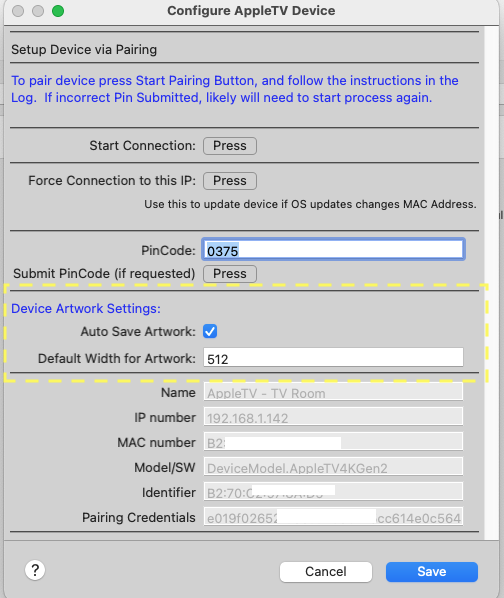
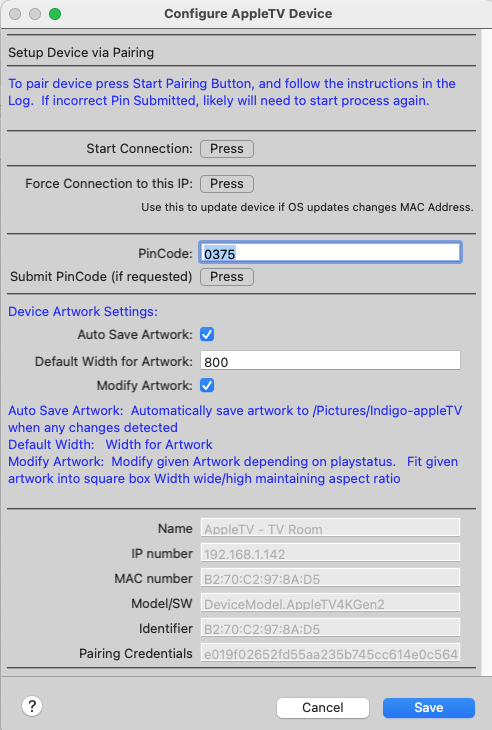
1.6.0
Extension of below changes:  Add Artwork Modify Option
This greyscales the provided artwork when paused.
It also resizes the provided artwork to a transparent background box width and height is that set.
This enables aspect ratio to remain intact for refreshingUrl control page use.

Add AppleTV device settings for Artwork - always updating the artwork if enabled and artwork changes.  Updates on PowerState changes and PlayState changes.   Removes need for Indigo based triggers on playback changes.

Automatically changes artwork thumb if playing, or paused or nothing=everything else.

These files can be changed in the /Pictures directory once they exist and won't be changed.  If wish to go back to plugins default, delete the files and restart the plugin.

Update library - including recent unmerged pull to fix 18.4 companion issue (tested on tvOS 18.4).  Will merge to latest version when released

Update dependencies.

Move default artwork thumbnail (which is used when no playback) to Pictures directory.  On start if doesn't exist will create.  Can be user updated to whatever thumb suits

Update DeviceConfig.png

1.5.11

Use animated thumbnail if playback occuring, otherwise use the static image

1.5.10

Change to animate default artwork thumb for Kiosk Home use
Remove Nowplaying details when power off (avoids some persisting given variability in appleTV apps)

1.5.8
[…]

diff --git a/appleTV.indigoPlugin/Contents/Server Plugin/plugin.py b/appleTV.indigoPlugin/Contents/Server Plugin/plugin.py
@@ -35,6 +35,9 @@ except:
 import time as t
 import binascii
 
+from io import BytesIO
+from PIL import Image, ImageDraw, ImageFont
+
 ## test, base import
 ## redo imports after installation
 
@@ -171,6 +174,7 @@ class appleTVListener( DeviceListener, PushListener, PowerListener, AudioListene
         self.loop = loop
         self.atv_config = atv_config
         self.current_artworkid = ""
+        self.last_artwork_mode = ""
         self.last_artworkid = ""
         self.devicename = devicename
         self._app_list = None
@@ -348,6 +352,7 @@ class appleTVListener( DeviceListener, PushListener, PowerListener, AudioListene
                 self.plugin.logger.debug(f"Artwork Update Forced {artwork_update}")
 
             artwork_width = device.pluginProps.get("artwork_width", 512)
+            artwork_modify = device.pluginProps.get("artwork_modify", False)
             try:
                 width_int = int(artwork_width)
             except (ValueError, TypeError):
@@ -360,9 +365,9 @@ class appleTVListener( DeviceListener, PushListener, PowerListener, AudioListene
 
             if artwork_update:
                 if self.plugin.debug2:
-                    self.plugin.logger.debug("Updating Artwork as playstate changed and forced update selected.")
+                    self.plugin.logger.debug("Updating Artwork as playstate changed and Autosave Artwork selected.")
                 # Schedule the asynchronous artwork save task without blocking.
-                self.loop.create_task(self.async_artwork_save(filename, width_int, None, playstatus=playstatus))
+                self.loop.create_task(self.async_artwork_save(filename, width_int, None, playstatus=playstatus, artwork_modify=artwork_modify))
 
         except Exception:
             if self.plugin.debug2:
@@ -521,7 +526,7 @@ class appleTVListener( DeviceListener, PushListener, PowerListener, AudioListene
         args = cmd[equal_sign + 1:].split(",")
         return command, _parse_args(command, args)
 
-    async def async_artwork_save(self, filename, width, height=None, playstatus=None):
+    async def async_artwork_save(self, filename, width, height=None, playstatus=None, artwork_modify=None):
         """
         Download artwork and save it to filename.
 
@@ -554,20 +559,59 @@ class appleTVListener( DeviceListener, PushListener, PowerListener, AudioListene
             self.current_artworkid = artworkID
 
             if self.plugin.debug2:
-                self.plugin.logger.debug(
-                    f"artworkID={artworkID}, current_artworkid={self.current_artworkid}, last_artworkid={self.last_artworkid}")
+                self.plugin.logger.debug(f"artworkID={artworkID}, current_artworkid={self.current_artworkid}, last_artworkid={self.last_artworkid}")
+
+            # Determine the desired mode based on playstatus.
+            desired_mode = "normal"  # default mode is color
+            if playstatus is not None and getattr(playstatus, "device_state", None) is not None:
+                state = playstatus.device_state
+                self.plugin.logger.debug(f"playstatus.device_state={state}")
+                if state == pyatv.const.DeviceState.Paused:
+                    desired_mode = "grayscale"
 
             # If artwork is available, write it if it has changed.
             if artwork is not None and artworkID is not None:
-                if self.last_artworkid != self.current_artworkid:
-                    with open(filename, "wb") as file:
-                        file.write(artwork.bytes)
-                    if self.plugin.debug2:
-                        self.plugin.logger.debug(f"Artwork Downloaded, mimetype {artwork.mimetype}")
-                    self.last_artworkid = artworkID
+                if artwork_modify:
+                    # Determine the desired mode based on playstatus.
+                    desired_mode = "normal"
+                    if playstatus is not None and getattr(playstatus, "device_state", None) is not None:
+                        state = playstatus.device_state
+                        if state == pyatv.const.DeviceState.Paused:
+                            desired_mode = "grayscale"
+
+                    # Process if artworkID has changed or mode is different.
+                    if (self.last_artworkid != artworkID) or (getattr(self, "last_artwork_mode", None) != desired_mode):
+                        # Open the artwork from the bytes.
+                        image_buffer = BytesIO(artwork.bytes)
+                        img = Image.open(image_buffer)
+
+                        final_img = self.process_to_square(img, box_size=width, to_grayscale=(desired_mode == "grayscale"))
+
+                        final_img.save(filename)
+
+                        if self.plugin.debug2:
+                            self.plugin.logger.debug(
+                                f"Processed artwork saved to {filename} using mode: {desired_mode}")
+
+                        self.last_artworkid = artworkID
+                        self.last_artwork_mode = desired_mode
+                    else:
+                        if self.plugin.debug2:
+                            self.plugin.logger.debug("Artwork and mode unchanged, skipping update.")
                 else:
-                    if self.plugin.debug2:
-                        self.plugin.logger.debug("Artwork unchanged, skipping update.")
+                    # If not modifying the artwork, simply save the bytes if artworkID is new.
+                    if self.last_artworkid != artworkID:
+                        with open(filename, "wb") as file:
+                            file.write(artwork.bytes)
+                        if self.plugin.debug2:
+                            self.plugin.logger.debug(f"Artwork saved to {filename} without modifications.")
+                        self.last_artworkid = artworkID
+                        # Clear last_artwork_mode since no processing was done.
+                        self.last_artwork_mode = None
+                    else:
+                        if self.plugin.debug2:
+                            self.plugin.logger.debug("Artwork unchanged, skipping update.")
+
             else:
                 # No valid artwork; use a fallback default image.
                 # Determine the fallback image and its ID based on playstatus.
@@ -603,6 +647,49 @@ class appleTVListener( DeviceListener, PushListener, PowerListener, AudioListene
                 self.plugin.logger.exception("async artwork save exception", exc_info=True)
             else:
                 self.plugin.logger.debug("async artwork save exception", exc_info=True)
+
+    def process_to_square(self, img, box_size, to_grayscale=False):
+        """
+        Resize the given image so that it fits inside a square of size (box_size x box_size)
+        while preserving its aspect ratio, then center it on a transparent canvas.
+
+        The output image is always in RGBA mode (so that the background is transparent).
+
+        Parameters:
+            img (PIL.Image): The input image.
+            box_size (int): The dimension of the output square.
+            to_grayscale (bool): If True, the image is converted to grayscale before processing.
+
+        Returns:
+            PIL.Image: The processed square image with a transparent background.
+        """
+        # Convert the input image to RGBA.
+        # If converting to grayscale, convert to "L" then back to "RGBA" so that the image appears grayscale.
+        if to_grayscale:
+            img = img.convert("L").convert("RGBA")
+        else:
+            img = img.convert("RGBA")
+
+        # Get original dimensions.
+        orig_w, orig_h = img.size
+        scale = min(box_size / orig_w, box_size / orig_h)
+        new_size = (int(orig_w * scale), int(orig_h * scale))
+
+        # Resize the image using high-quality downsampling.
+        resized = img.resize(new_size, resample=Image.LANCZOS)
+
+        # Create a new square canvas with a transparent background.
+        square_img = Image.new("RGBA", (box_size, box_size), (0, 0, 0, 0))
+
+        # Calculate position to center the resized image.
+        left = (box_size - new_size[0]) // 2
+        top = (box_size - new_size[1]) // 2
+
+        # Paste the resized image into the square canvas.
+        # If the image is in RGBA mode, use its alpha channel as a mask.
+        square_img.paste(resized, (left, top), mask=resized)
+
+        return square_img
 
     async def _handle_device_command(self, args, cmd ):
         try:
